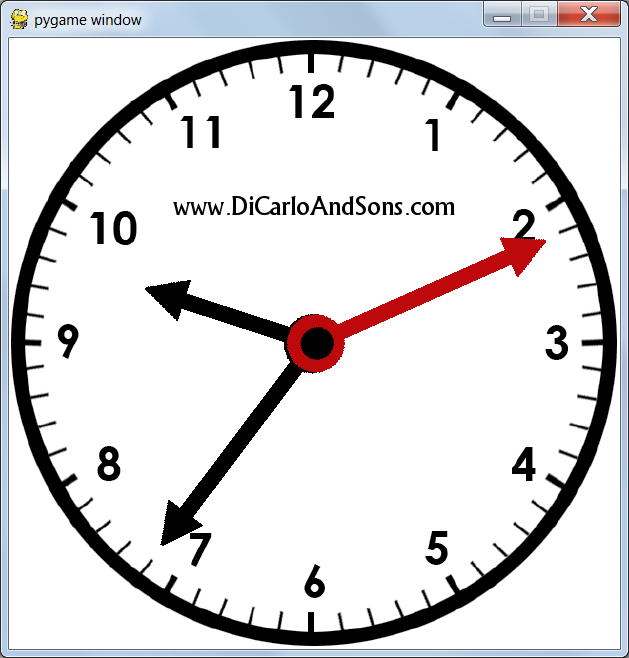
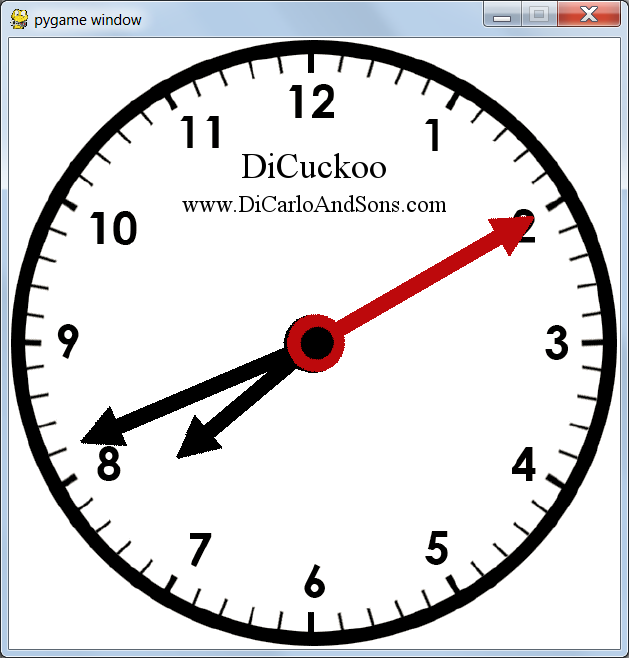
Changed to use font included with Tkinter.

Changed region(s): [[0.1208, 0.4255, 0.4833, 0.8511], [0.5437, 0.304, 0.876, 0.5167], [0.2719, 0.2128, 0.725, 0.3343]]

diff --git a/DiCuckoo.py b/DiCuckoo.py
@@ -52,10 +52,10 @@ if __name__ == '__main__':
 	clockFace  = ClockFace(clockFaceFile, clock_center, screen)
 	
 	pygame.font.init()
-	#myfont = pygame.font.SysFont("fixed", 50)
-	myfont = pygame.font.Font("a_Allgidus.ttf", 24)
-			
-
+	myfont1 = pygame.font.SysFont("Times", 24)
+	myfont2 = pygame.font.SysFont("Times", 36)
+	#myfont = pygame.font.Font("a_Allgidus.ttf", 24)
+	
 
 	
 	secondHand = ClockHand(handsSecondsFile, - 6,  0, clockFace)
@@ -79,8 +79,11 @@ if __name__ == '__main__':
 			screen.blit(clockFace.faceSurface, (0,0))
 			
 			# render text
-			label = myfont.render("www.DiCarloAndSons.com", 100, (0,0,0))
-			screen.blit(label, (clock_center - label.get_width()/2, clock_center/2))
+			label = myfont2.render("DiCuckoo", 110, (0,0,0))
+			screen.blit(label, (clock_center - label.get_width()/2, clock_center/2-45))
+			plug = myfont1.render("www.DiCarloAndSons.com", 100, (0,0,0))
+			screen.blit(plug, (clock_center - plug.get_width()/2, clock_center/2))
+			
 			
 			rotateHand(hourHand,   now.hour,   -(now.minute//hourHand.subRotationAngle))
 			rotateHand(minuteHand, now.minute, -(now.second//minuteHand.subRotationAngle))
